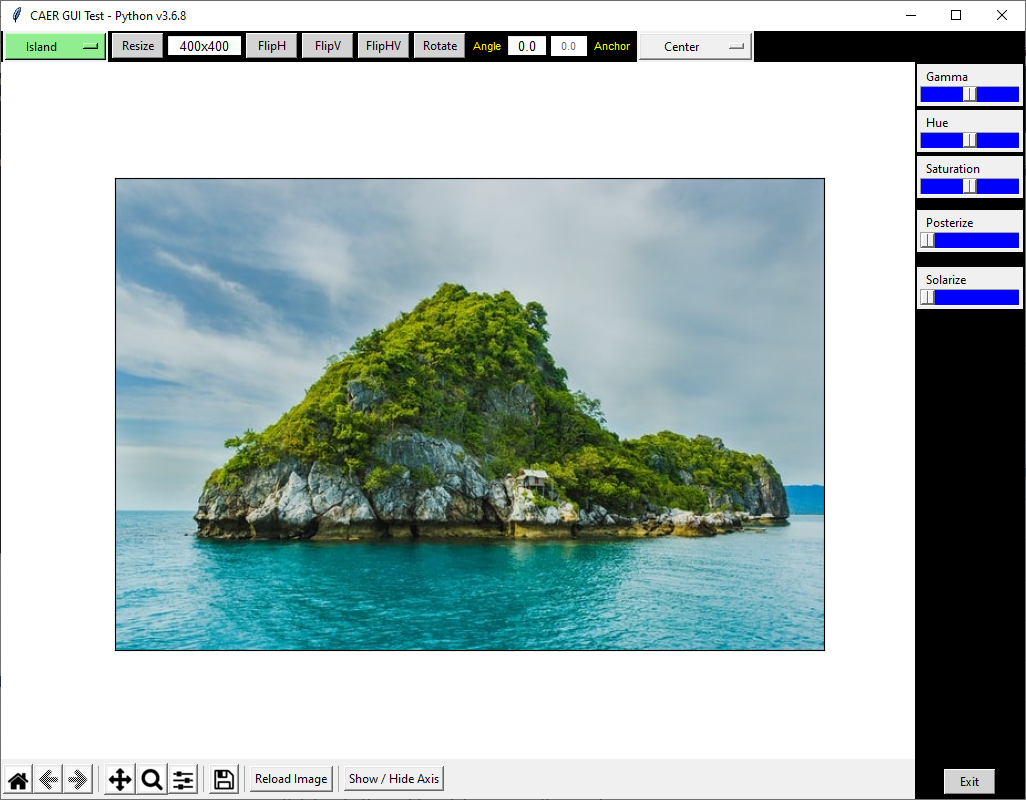
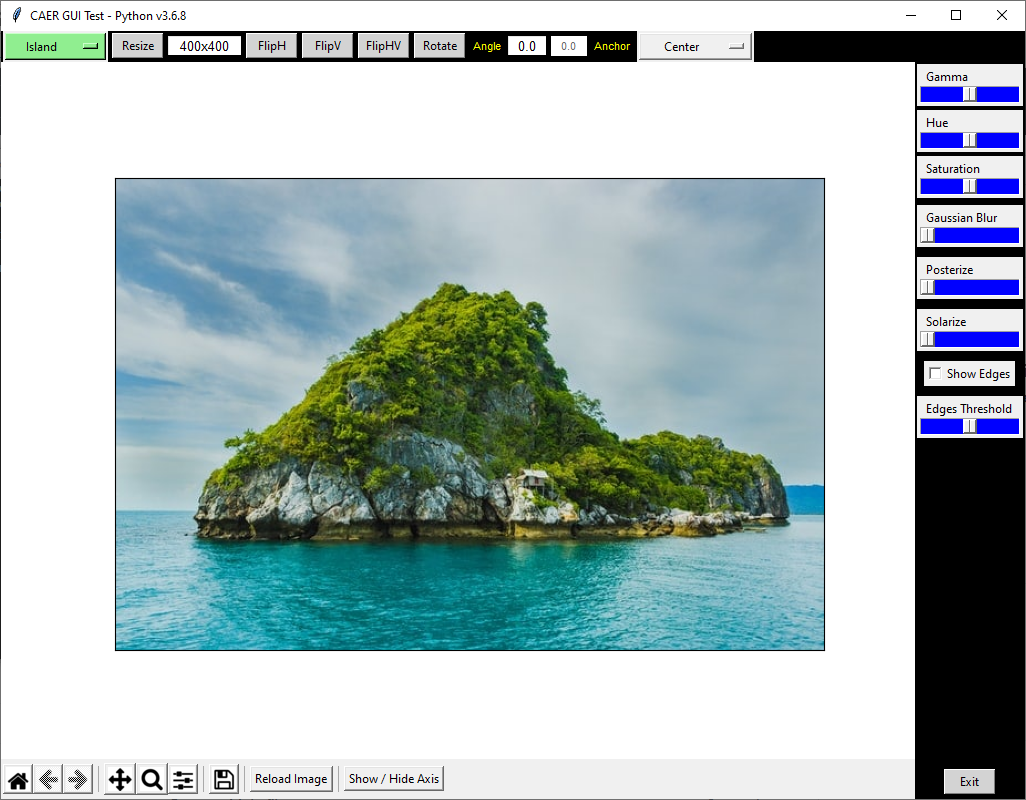
Added Gaussian Blur and Canny Edges sliders
- Added Show Edges checkbox
- Applied "caer.to_tensor" with "cspace = 'rgb'" to all transformations

diff --git a/examples/caer_gui_test.py b/examples/caer_gui_test.py
@@ -109,12 +109,11 @@ def show_resized_image():
                     rotateImgBtn['bg'] = 'lightgrey'
 
             if not transformedImage is None:
-                currentImage = transformedImage
+                currentImage = caer.to_tensor(transformedImage, cspace = 'rgb')
                 reset_ghsps()
 
             # Resize the image without preserving aspect ratio
-            currentImage = caer.resize(currentImage, target_size=(int(size[0]),int(size[1])), preserve_aspect_ratio=False)
-            currentImage.cspace = 'rgb'
+            currentImage = caer.to_tensor(caer.resize(currentImage, target_size=(int(size[0]),int(size[1])), preserve_aspect_ratio=False), cspace = 'rgb')
 
             if rotationApplied:
                 show_rotated_image(True)
@@ -144,11 +143,10 @@ def show_h_flipped_image():
             rotateImgBtn['bg'] = 'lightgrey'
 
     if not transformedImage is None:
-        currentImage = transformedImage
+        currentImage = caer.to_tensor(transformedImage, cspace = 'rgb')
         reset_ghsps()
 
-    currentImage = caer.transforms.hflip(currentImage)
-    currentImage.cspace = 'rgb'
+    currentImage = caer.to_tensor(caer.transforms.hflip(currentImage), cspace = 'rgb')
 
     if rotationApplied:
         show_rotated_image(True)
@@ -176,11 +174,10 @@ def show_v_flipped_image():
             rotateImgBtn['bg'] = 'lightgrey'
 
     if not transformedImage is None:
-        currentImage = transformedImage
+        currentImage = caer.to_tensor(transformedImage, cspace = 'rgb')
         reset_ghsps()
 
-    currentImage = caer.transforms.vflip(currentImage)
-    currentImage.cspace = 'rgb'
+    currentImage = caer.to_tensor(caer.transforms.vflip(currentImage), cspace = 'rgb')
 
     if rotationApplied:
         show_rotated_image(True)
@@ -208,11 +205,10 @@ def show_hv_flipped_image():
             rotateImgBtn['bg'] = 'lightgrey'
 
     if not transformedImage is None:
-        currentImage = transformedImage
+        currentImage = caer.to_tensor(transformedImage, cspace = 'rgb')
         reset_ghsps()
 
-    currentImage = caer.transforms.hvflip(currentImage)
-    currentImage.cspace = 'rgb'
+    currentImage = caer.to_tensor(caer.transforms.hvflip(currentImage), cspace = 'rgb')
 
     if rotationApplied:
         show_rotated_image(True)
@@ -293,14 +289,12 @@ def show_rotated_image(external = False):
         # preserve current image and only display its rotated version
 
         if not transformedImage is None:
-            rot = caer.transforms.rotate(transformedImage, float(currentAngle), rotPoint=anchor)
+            rot = caer.to_tensor(caer.transforms.rotate(transformedImage, float(currentAngle), rotPoint=anchor), cspace = 'rgb')
             if not rotationApplied:
-                currentImage = transformedImage
+                currentImage = caer.to_tensor(transformedImage, cspace = 'rgb')
                 reset_ghsps()
         else:
-            rot = caer.transforms.rotate(currentImage, float(currentAngle), rotPoint=anchor)
-
-        rot.cspace = 'rgb'
+            rot = caer.to_tensor(caer.transforms.rotate(currentImage, float(currentAngle), rotPoint=anchor), cspace = 'rgb')
 
         image_show(rot)
     except Exception as e:
@@ -328,18 +322,24 @@ def adjust_ghsps(*args):
     global transformedImage
 
     # apply all transformations to currently displayed image
-    transformedImage = caer.transforms.adjust_hue(currentImage, hue.get())
-    transformedImage = caer.transforms.adjust_saturation(transformedImage, saturation.get())
-    transformedImage = caer.transforms.adjust_gamma(transformedImage, imgGamma.get())
+    transformedImage = caer.to_tensor(caer.transforms.adjust_hue(currentImage, hue.get()), cspace = 'rgb')
+    transformedImage = caer.to_tensor(caer.transforms.adjust_saturation(transformedImage, saturation.get()), cspace = 'rgb')
+    transformedImage = caer.to_tensor(caer.transforms.adjust_gamma(transformedImage, imgGamma.get()), cspace = 'rgb')
+
+    gb = gaussian_blur.get()
+
+    if gb > 1:
+        transformedImage = caer.to_tensor(caer.core.cv.GaussianBlur(transformedImage, (gb + 1, gb + 1), caer.core.cv.BORDER_DEFAULT), cspace = 'rgb')
 
     if posterize.get() < 6:
-        transformedImage = caer.transforms.posterize(transformedImage, posterize.get())
+        transformedImage = caer.to_tensor(caer.transforms.posterize(transformedImage, posterize.get()), cspace = 'rgb')
 
     if solarize.get() < 255:
-        transformedImage = caer.transforms.solarize(transformedImage, solarize.get())
+        transformedImage = caer.to_tensor(caer.transforms.solarize(transformedImage, solarize.get()), cspace = 'rgb')
 
-    transformedImage.cspace = 'rgb'
-    
+    if show_edges.get() == 1:
+        transformedImage = caer.to_tensor(caer.core.cv.Canny(transformedImage, low_threshold.get(), low_threshold.get() * 3), cspace = 'rgb')
+
     if rotationApplied:
         show_rotated_image(True)
     else:
@@ -350,8 +350,11 @@ def reset_ghsps():
     global imgGamma
     global hue
     global saturation
+    global gaussian_blur
     global posterize
     global solarize
+    global show_edges
+    global low_threshold
 
     transformedImage = None
 
@@ -359,8 +362,11 @@ def reset_ghsps():
     imgGamma.set(1.0)
     hue.set(0.0)
     saturation.set(1.0)
+    gaussian_blur.set(0)
     posterize.set(6)
     solarize.set(255)
+    show_edges.set(0)
+    low_threshold.set(50)
 
 def main():
     global root
@@ -388,8 +394,11 @@ def main():
     global imgGamma
     global hue
     global saturation
+    global gaussian_blur
     global posterize
     global solarize
+    global show_edges
+    global low_threshold
 
     root = Tk()
     root.config(background='white')
@@ -499,10 +508,16 @@ def main():
     sliderSaturation.pack(side=TOP, anchor=E, padx=2, pady=2)
     saturation.set(1.0)
 
+    # create the image Gaussian Blur slider control
+    gaussian_blur = IntVar()
+    sliderGaussianBlur = Scale(frame2, label='Gaussian Blur', variable=gaussian_blur, troughcolor='blue', from_=0, to=10, resolution=2, sliderlength=15, showvalue=False, orient=HORIZONTAL, command=adjust_ghsps)
+    sliderGaussianBlur.pack(side=TOP, padx=2, pady=5)
+    gaussian_blur.set(0)
+
     # create the image posterize slider control
     posterize = IntVar()
     sliderPosterize = Scale(frame2, label='Posterize', variable=posterize, troughcolor='blue', from_=6, to=1, resolution=1, sliderlength=15, showvalue=False, orient=HORIZONTAL, command=adjust_ghsps)
-    sliderPosterize.pack(side=TOP, padx=2, pady=10)
+    sliderPosterize.pack(side=TOP, padx=2, pady=5)
     posterize.set(6)
 
     # create the image solarize slider control
@@ -510,6 +525,18 @@ def main():
     sliderSolarize = Scale(frame2, label='Solarize', variable=solarize, troughcolor='blue', from_=255, to=0, resolution=1, sliderlength=15, showvalue=False, orient=HORIZONTAL, command=adjust_ghsps)
     sliderSolarize.pack(side=TOP, padx=2, pady=5)
     solarize.set(255)
+
+    # add 'Show Edges' checkbox
+    show_edges = IntVar()
+    chbShowEdges = Checkbutton(frame2, text='Show Edges', variable=show_edges, command=adjust_ghsps)
+    chbShowEdges.pack(side=TOP, padx=2, pady=5)
+    show_edges.set(0)
+
+    # create the image edges low threshold slider control
+    low_threshold = IntVar()
+    sliderLowThreshold = Scale(frame2, label='Edges Threshold', variable=low_threshold, troughcolor='blue', from_=100, to=0, resolution=1, sliderlength=15, showvalue=False, orient=HORIZONTAL, command=adjust_ghsps)
+    sliderLowThreshold.pack(side=TOP, padx=2, pady=5)
+    low_threshold.set(50)
 
     # add exit button
     exitBtn = Button(frame2, text='Exit', width=6, bg='lightgrey', relief=RAISED, command=root.destroy)
